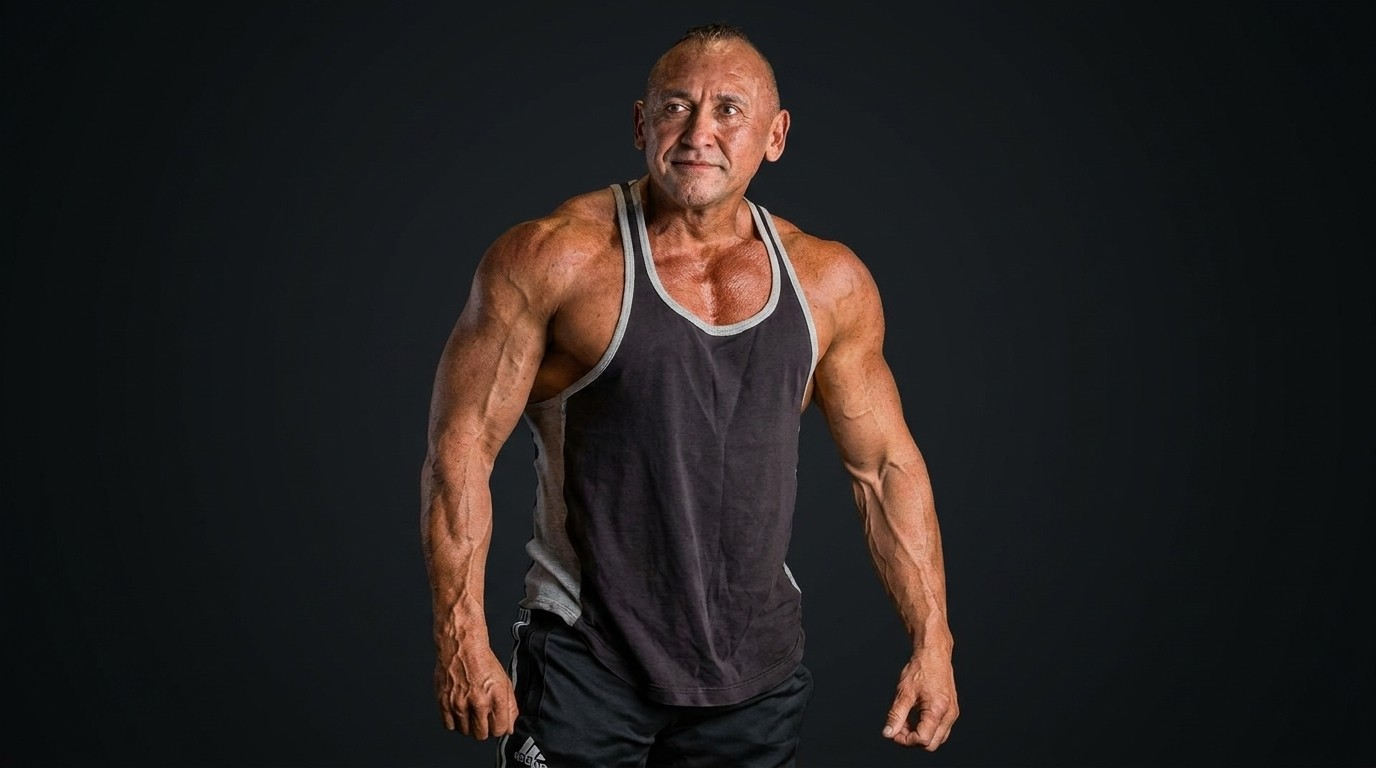
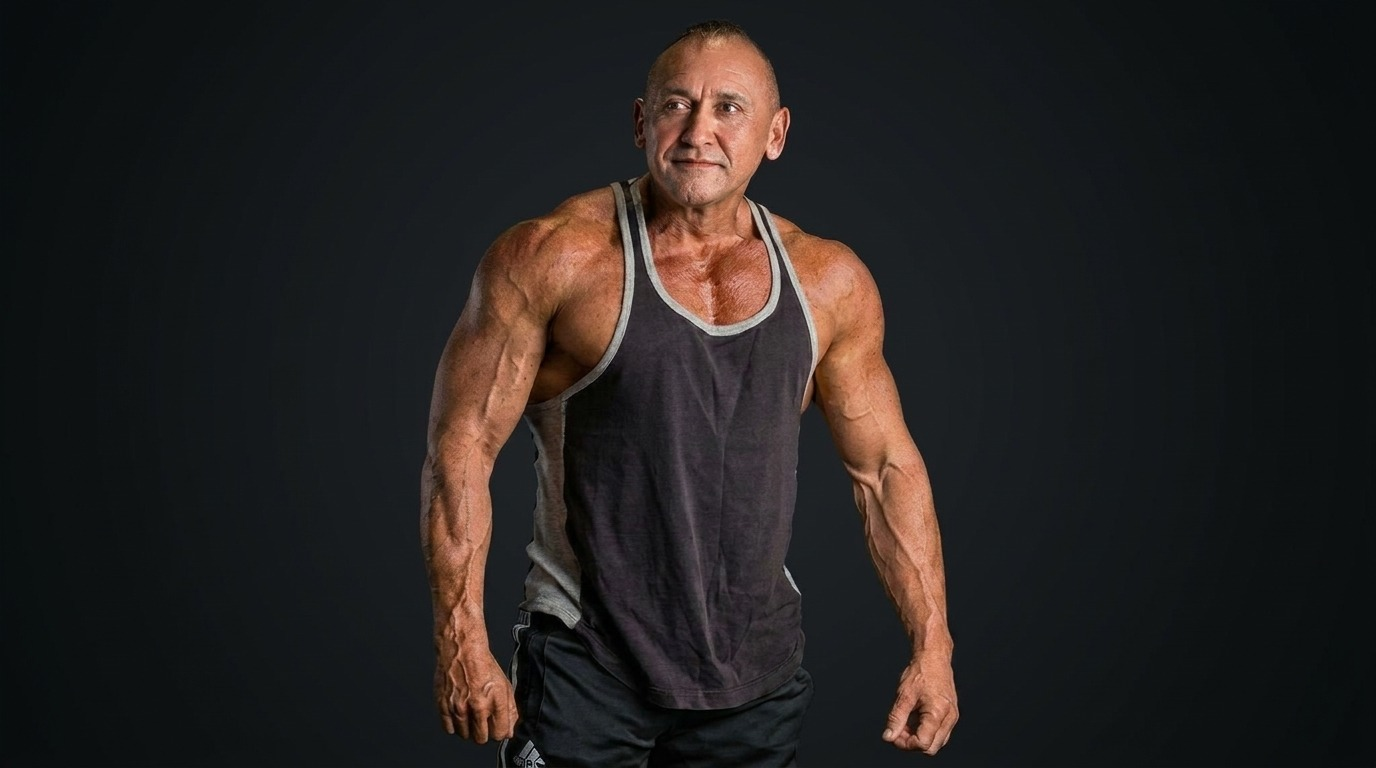
De-age Daniel in daniel-gym.jpg (about/coach photo), results gallery to 3:4 (no crop)

diff --git a/assets/daniel.css b/assets/daniel.css
@@ -114,7 +114,7 @@ h2.display{font-size:clamp(34px,5vw,68px)}
 
 /* results gallery */
 .gallery{display:grid;grid-template-columns:repeat(3,1fr);gap:20px;margin-top:48px}
-.shot{position:relative;border-radius:14px;overflow:hidden;aspect-ratio:1/1;background:var(--line);border:1px solid var(--line)}
+.shot{position:relative;border-radius:14px;overflow:hidden;aspect-ratio:3/4;background:var(--line);border:1px solid var(--line)}
 .shot img{width:100%;height:100%;object-fit:cover;transition:.5s var(--e)}
 .shot:hover img{transform:scale(1.04)}
 .shot__tag{position:absolute;left:12px;bottom:12px;background:rgba(22,24,28,.82);color:#fff;font-family:var(--head);font-weight:700;text-transform:uppercase;letter-spacing:1px;font-size:11px;padding:6px 12px;border-radius:6px}
